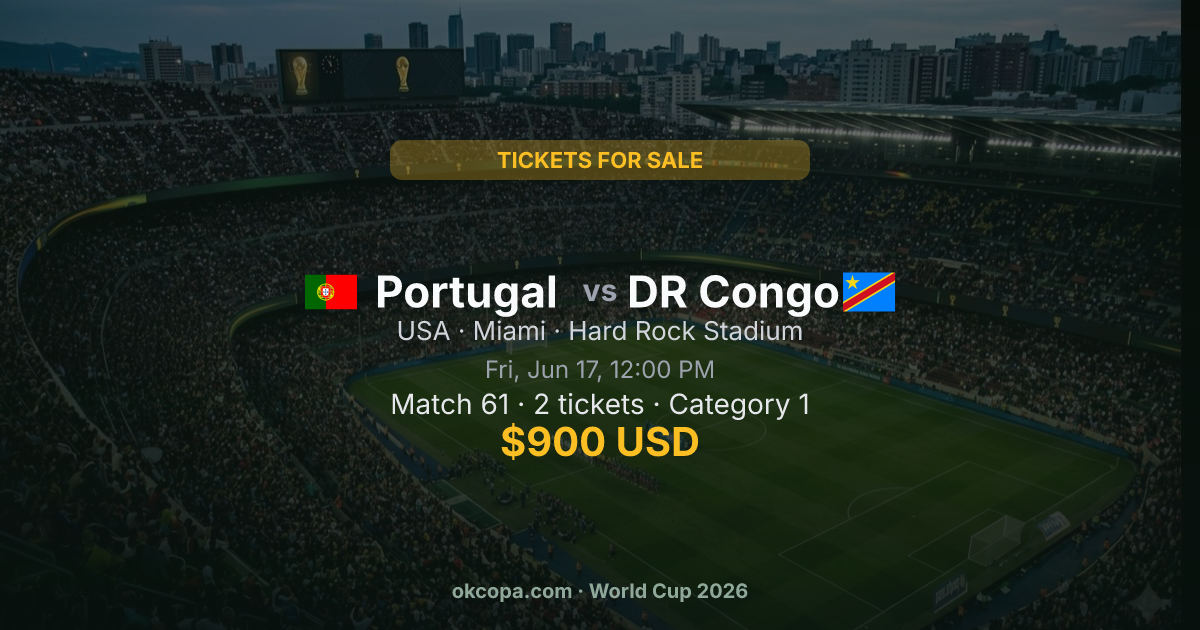
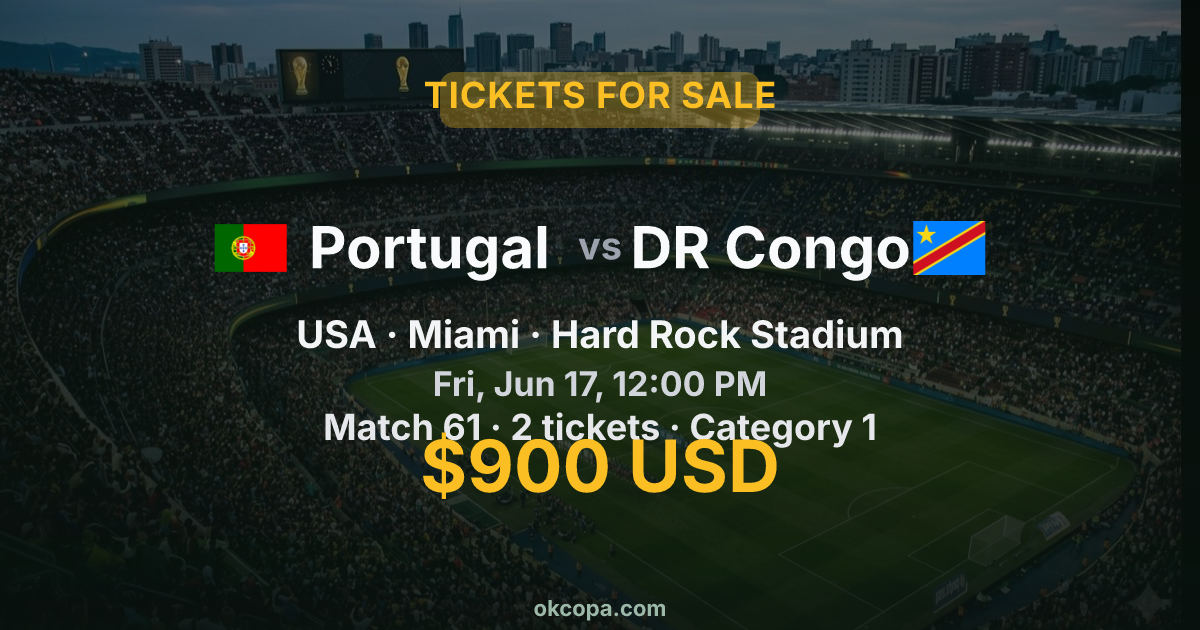
fix: WhatsApp OG previews and shorter share copy
Return static JPEG with 200 on render failure, init @jsquash WASM on
Workers, enlarge ticket OG card typography, and simplify share text to
platform pitch only (details live in link preview).

Changed region(s): [[0.1542, 0.3317, 0.8325, 0.7841], [0.3083, 0.0905, 0.6783, 0.3016], [0.37, 0.9048, 0.6167, 0.9952]]

diff --git a/functions/ogCardSvg.ts b/functions/ogCardSvg.ts
@@ -64,25 +64,25 @@ function flagImage(emoji: string | undefined, x: number, y: number, size: number
   return `<image href="${href}" x="${x - w / 2}" y="${y - h / 2}" width="${w}" height="${h}" preserveAspectRatio="xMidYMid meet"/>`;
 }
 
-function matchupBlock(card: OgCardContent, accent: string): string {
-  const home = card.homeTeam ? truncate(card.homeTeam, 28) : '';
-  const away = card.awayTeam ? truncate(card.awayTeam, 28) : '';
+function matchupBlock(card: OgCardContent, y: number): string {
+  const home = card.homeTeam ? truncate(card.homeTeam, 24) : '';
+  const away = card.awayTeam ? truncate(card.awayTeam, 24) : '';
   if (!home && !away) {
-    const headline = truncate(card.headline || '', 56);
-    return `<text x="${CX}" y="300" text-anchor="middle" fill="#f9fafb" font-family="Inter, sans-serif" font-size="46" font-weight="700">${escapeXml(headline)}</text>`;
+    const headline = truncate(card.headline || '', 48);
+    const headlineSize = headline.length > 40 ? 52 : 64;
+    return `<text x="${CX}" y="${y + headlineSize * 0.35}" text-anchor="middle" fill="#f9fafb" font-family="Inter, sans-serif" font-size="${headlineSize}" font-weight="800">${escapeXml(headline)}</text>`;
   }
 
-  const fontSize = home.length + away.length > 36 ? 38 : 44;
-  const vsSize = 30;
-  const flagW = 52;
-  const gap = 18;
+  const fontSize = home.length + away.length > 32 ? 50 : 58;
+  const vsSize = 38;
+  const flagW = 72;
+  const gap = 22;
   const homeW = home.length * (fontSize * 0.52);
   const awayW = away.length * (fontSize * 0.52);
-  const vsW = 48;
+  const vsW = 56;
   const total =
     flagW + gap + homeW + gap + vsW + gap + awayW + gap + flagW;
   let x = CX - total / 2 + flagW / 2;
-  const y = 292;
   const parts: string[] = [];
 
   parts.push(flagImage(card.flag1, x, y, flagW));
@@ -107,51 +107,53 @@ function matchupBlock(card: OgCardContent, accent: string): string {
 export function buildCardSvg(card: OgCardContent): string {
   const isSell = card.badge.includes('SALE');
   const accent = isSell ? '#fbbf24' : '#38bdf8';
-  const accentSoft = isSell ? 'rgba(251,191,36,0.28)' : 'rgba(56,189,248,0.28)';
+  const accentSoft = isSell ? 'rgba(251,191,36,0.32)' : 'rgba(56,189,248,0.32)';
 
-  const badge = truncate(card.badge, 40);
-  const meta = card.meta ? truncate(card.meta, 72) : '';
-  const kickoff = card.kickoff ? truncate(card.kickoff, 44) : '';
-  const detailLines = wrapLines(card.detail, 64, 2);
-  const price = card.price ? truncate(card.price, 28) : '';
+  const badge = truncate(card.badge, 36);
+  const meta = card.meta ? truncate(card.meta, 56) : '';
+  const kickoff = card.kickoff ? truncate(card.kickoff, 40) : '';
+  const detailLines = wrapLines(card.detail, 52, 2);
+  const price = card.price ? truncate(card.price, 24) : '';
 
   const hero = getOgHeroJpegDataUrl();
   const bgLayer = hero
     ? `<image href="${hero}" x="0" y="0" width="${W}" height="${H}" preserveAspectRatio="xMidYMid slice"/>`
     : `<rect width="${W}" height="${H}" fill="#1a3d2e"/>`;
 
-  const textLines: string[] = [];
-  let y = 168;
+  const badgeFont = 36;
+  const badgePadX = Math.min(480, Math.max(320, badge.length * 18));
+  const badgeY = 108;
+  const matchupY = 248;
 
-  textLines.push(
-    `<rect x="${CX - 210}" y="${y - 28}" width="420" height="40" rx="12" fill="${accentSoft}"/>`,
-    `<text x="${CX}" y="${y}" text-anchor="middle" fill="${accent}" font-family="Inter, sans-serif" font-size="22" font-weight="700">${escapeXml(badge)}</text>`,
-  );
+  const textLines: string[] = [
+    `<rect x="${CX - badgePadX / 2}" y="${badgeY - 36}" width="${badgePadX}" height="56" rx="14" fill="${accentSoft}"/>`,
+    `<text x="${CX}" y="${badgeY}" text-anchor="middle" fill="${accent}" font-family="Inter, sans-serif" font-size="${badgeFont}" font-weight="800" letter-spacing="1">${escapeXml(badge)}</text>`,
+  ];
 
-  const matchup = matchupBlock(card, accent);
-  y = 340;
+  const matchup = matchupBlock(card, matchupY);
+  let y = 348;
   if (meta) {
     textLines.push(
-      `<text x="${CX}" y="${y}" text-anchor="middle" fill="#d1d5db" font-family="Inter, sans-serif" font-size="26" font-weight="500">${escapeXml(meta)}</text>`,
+      `<text x="${CX}" y="${y}" text-anchor="middle" fill="#f3f4f6" font-family="Inter, sans-serif" font-size="38" font-weight="600">${escapeXml(meta)}</text>`,
     );
-    y += 38;
+    y += 48;
   }
   if (kickoff) {
     textLines.push(
-      `<text x="${CX}" y="${y}" text-anchor="middle" fill="#9ca3af" font-family="Inter, sans-serif" font-size="24" font-weight="500">${escapeXml(kickoff)}</text>`,
+      `<text x="${CX}" y="${y}" text-anchor="middle" fill="#d1d5db" font-family="Inter, sans-serif" font-size="34" font-weight="600">${escapeXml(kickoff)}</text>`,
     );
-    y += 36;
+    y += 44;
   }
   for (const line of detailLines) {
     textLines.push(
-      `<text x="${CX}" y="${y}" text-anchor="middle" fill="#e5e7eb" font-family="Inter, sans-serif" font-size="28" font-weight="500">${escapeXml(line)}</text>`,
+      `<text x="${CX}" y="${y}" text-anchor="middle" fill="#e5e7eb" font-family="Inter, sans-serif" font-size="36" font-weight="600">${escapeXml(line)}</text>`,
     );
-    y += 34;
+    y += 42;
   }
   if (price) {
-    y += 8;
+    y += 10;
     textLines.push(
-      `<text x="${CX}" y="${y}" text-anchor="middle" fill="${accent}" font-family="Inter, sans-serif" font-size="40" font-weight="700">${escapeXml(price)}</text>`,
+      `<text x="${CX}" y="${y}" text-anchor="middle" fill="${accent}" font-family="Inter, sans-serif" font-size="72" font-weight="800">${escapeXml(price)}</text>`,
     );
   }
 
@@ -159,15 +161,15 @@ export function buildCardSvg(card: OgCardContent): string {
 <svg xmlns="http://www.w3.org/2000/svg" width="${W}" height="${H}" viewBox="0 0 ${W} ${H}">
   <defs>
     <linearGradient id="shade" x1="0" y1="0" x2="0" y2="1">
-      <stop offset="0%" stop-color="rgba(10,22,16,0.55)"/>
-      <stop offset="45%" stop-color="rgba(10,22,16,0.72)"/>
-      <stop offset="100%" stop-color="rgba(8,18,14,0.88)"/>
+      <stop offset="0%" stop-color="rgba(10,22,16,0.5)"/>
+      <stop offset="40%" stop-color="rgba(10,22,16,0.68)"/>
+      <stop offset="100%" stop-color="rgba(8,18,14,0.9)"/>
     </linearGradient>
   </defs>
   ${bgLayer}
   <rect width="${W}" height="${H}" fill="url(#shade)"/>
   ${textLines.join('\n  ')}
   ${matchup}
-  <text x="${CX}" y="598" text-anchor="middle" fill="#8fa89a" font-family="Inter, sans-serif" font-size="20" font-weight="600">okcopa.com · World Cup 2026</text>
+  <text x="${CX}" y="616" text-anchor="middle" fill="#9cb8a8" font-family="Inter, sans-serif" font-size="22" font-weight="700">okcopa.com</text>
 </svg>`;
 }

diff --git a/src/i18n.ts b/src/i18n.ts
@@ -210,18 +210,10 @@ export const t = {
     ticketShareCopied: 'Copied — paste into WhatsApp',
     ticketShareAria: 'Share this listing',
     ticketShareHighlight: 'Shared listing',
-    ticketShareSellIntro: "Hey guys! Just listed my World Cup '26 tickets on OKCOPA:",
-    ticketShareSellMatchLabel: 'Match',
-    ticketShareSellCategoryLabel: 'Category/Qty',
-    ticketShareSellPriceLabel: 'Price',
-    ticketShareSellLinkCta:
-      'You can click the link below to check my exact seats and chat with me directly via WhatsApp!',
-    ticketShareSellPlatformPitch:
-      "Also, highly recommend this awesome fan-to-fan directory. It's a personal project built by a fellow fan—100% free with 0% platform fees (finally we can skip that crazy 30% StubHub markup!). Feel free to check it out! 🤝⚽",
-    ticketShareSellLinkCue: '👇👇👇',
-    ticketShareBuyIntro: "Hey! I'm looking for World Cup '26 tickets on OKCOPA:",
-    ticketShareBuyTargetLabel: 'Looking for',
-    ticketShareBuyBudgetLabel: 'Budget',
+    ticketShareSellBody:
+      'I posted a ticket transfer on OKCOPA, a free fan-to-fan hub. Open the link and tap WhatsApp on the listing to message me directly.',
+    ticketShareBuyBody:
+      'I posted a ticket wanted ad on OKCOPA, a free fan-to-fan hub. Open the link and tap WhatsApp on the listing to reach me.',
     ticketSellCardMatchup: 'Fixture',
     ticketSellVs: 'vs',
     ticketSellCardCountry: 'Country',
@@ -424,18 +416,10 @@ export const t = {
     ticketShareCopied: 'Copiado — pega en WhatsApp',
     ticketShareAria: 'Compartir esta publicación',
     ticketShareHighlight: 'Publicación compartida',
-    ticketShareSellIntro: '¡Hola! Acabo de publicar mis boletos del Mundial 2026 en OKCOPA:',
-    ticketShareSellMatchLabel: 'Partido',
-    ticketShareSellCategoryLabel: 'Categoría/Cant.',
-    ticketShareSellPriceLabel: 'Precio',
-    ticketShareSellLinkCta:
-      'Abre el enlace para ver mis asientos exactos y escríbeme directo por WhatsApp.',
-    ticketShareSellPlatformPitch:
-      'También te recomiendo este directorio fan a fan: proyecto personal de un aficionado, 100% gratis y 0% comisión (¡adiós al recargo del 30% de StubHub!). ¡Échale un vistazo! 🤝⚽',
-    ticketShareSellLinkCue: '👇👇👇',
-    ticketShareBuyIntro: '¡Hola! Busco boletos del Mundial 2026 en OKCOPA:',
-    ticketShareBuyTargetLabel: 'Busco',
-    ticketShareBuyBudgetLabel: 'Presupuesto',
+    ticketShareSellBody:
+      'Publiqué una transferencia de boletos en OKCOPA, un hub fan a fan gratis. Abre el enlace y toca WhatsApp en el anuncio para escribirme directo.',
+    ticketShareBuyBody:
+      'Publiqué que busco boletos en OKCOPA, un hub fan a fan gratis. Abre el enlace y toca WhatsApp en el anuncio para contactarme.',
     ticketSellCardMatchup: 'Partido',
     ticketSellVs: 'vs',
     ticketSellCardCountry: 'País',
@@ -638,18 +622,10 @@ export const t = {
     ticketShareCopied: 'Copiado — cole no WhatsApp',
     ticketShareAria: 'Compartilhar esta publicação',
     ticketShareHighlight: 'Publicação compartilhada',
-    ticketShareSellIntro: 'Oi! Acabei de anunciar meus ingressos da Copa 2026 na OKCOPA:',
-    ticketShareSellMatchLabel: 'Jogo',
-    ticketShareSellCategoryLabel: 'Categoria/Qtd.',
-    ticketShareSellPriceLabel: 'Preço',
-    ticketShareSellLinkCta:
-      'Abra o link para ver meus assentos exatos e fale comigo direto no WhatsApp.',
-    ticketShareSellPlatformPitch:
-      'Recomendo muito este diretório torcedor a torcedor: projeto pessoal de um fã, 100% grátis e 0% de taxa (finalmente dá para fugir dos 30% do StubHub!). Dá uma olhada! 🤝⚽',
-    ticketShareSellLinkCue: '👇👇👇',
-    ticketShareBuyIntro: 'Oi! Estou procurando ingressos da Copa 2026 na OKCOPA:',
-    ticketShareBuyTargetLabel: 'Procuro',
-    ticketShareBuyBudgetLabel: 'Orçamento',
+    ticketShareSellBody:
+      'Anunciei uma transferência de ingressos na OKCOPA, um hub torcedor a torcedor grátis. Abra o link e toque em WhatsApp no anúncio para falar comigo direto.',
+    ticketShareBuyBody:
+      'Anunciei que procuro ingressos na OKCOPA, um hub torcedor a torcedor grátis. Abra o link e toque em WhatsApp no anúncio para me contatar.',
     ticketSellCardMatchup: 'Jogo',
     ticketSellVs: 'x',
     ticketSellCardCountry: 'País',

diff --git a/src/ticketShare.ts b/src/ticketShare.ts
@@ -1,6 +1,4 @@
 import type { Translations } from './i18n';
-import type { TicketSellPayload, TicketBuyPayload } from './ticketPostForm';
-import { formatCategorySeatLine } from './ticketPostForm';
 import type { TicketWallPost } from './ticketPosts';
 
 const TICKET_PARAM = 'ticket';
@@ -26,101 +24,19 @@ export function clearTicketShareFromUrl(): void {
   window.history.replaceState(window.history.state, '', next);
 }
 
-/** "Match 16 · A vs B" → "Match 16 - A vs B" for share copy. */
-function formatShareMatchLine(raw: string): string {
-  const s = raw.trim();
-  const dot = s.indexOf('·');
-  if (dot > 0 && /^Match\s+\d+/i.test(s)) {
-    return `${s.slice(0, dot).trim()} - ${s.slice(dot + 1).trim()}`;
-  }
-  return s;
-}
-
-function sellShareMatchLine(post: TicketWallPost): string {
-  const p = post.payload as TicketSellPayload | undefined;
-  if (p?.matches?.length) return formatShareMatchLine(p.matches[0]);
-  const first = post.summary.split(' · ')[0]?.trim();
-  return first || post.summary;
-}
-
-function sellShareCategoryQtyLine(p: TicketSellPayload): string {
-  const parts: string[] = [];
-  if (p.category?.trim()) parts.push(p.category.trim());
-  parts.push(`${p.quantity} Ticket${p.quantity !== 1 ? 's' : ''}`);
-  const seat = formatCategorySeatLine(p);
-  if (seat) parts.push(seat);
-  return parts.join(' · ');
-}
-
-function sellSharePriceLine(p: TicketSellPayload): string {
-  if (p.priceType === 'negotiable') return 'Negotiable';
-  if (p.priceAmount != null && Number.isFinite(p.priceAmount)) return `$${p.priceAmount} USD`;
-  return '—';
-}
-
-function buildSellShareBody(post: TicketWallPost, tr: Translations): string {
-  const p = post.payload as TicketSellPayload | undefined;
-  const lines: string[] = [tr.ticketShareSellIntro, ''];
-
-  lines.push(`🏟 ${tr.ticketShareSellMatchLabel}: ${sellShareMatchLine(post)}`);
-
-  if (p) {
-    lines.push(`🎫 ${tr.ticketShareSellCategoryLabel}: ${sellShareCategoryQtyLine(p)}`);
-    lines.push(`💰 ${tr.ticketShareSellPriceLabel}: ${sellSharePriceLine(p)}`);
-  } else {
-    lines.push(`🎫 ${tr.ticketShareSellCategoryLabel}: ${post.summary}`);
-  }
-
-  lines.push(
-    '',
-    tr.ticketShareSellLinkCta,
-    '',
-    tr.ticketShareSellPlatformPitch,
-  );
-  return lines.join('\n');
-}
-
-function buildBuyShareBody(post: TicketWallPost, tr: Translations): string {
-  const p = post.payload as TicketBuyPayload | undefined;
-  const lines: string[] = [tr.ticketShareBuyIntro, ''];
-
-  if (p) {
-    lines.push(`🏟 ${tr.ticketShareBuyTargetLabel}: ${p.targetMatch.trim()}`);
-    const qtyParts = [`${p.quantity} Ticket${p.quantity !== 1 ? 's' : ''}`];
-    if (p.category?.trim()) qtyParts.unshift(p.category.trim());
-    const seat = formatCategorySeatLine(p);
-    if (seat) qtyParts.push(seat);
-    lines.push(`🎫 ${tr.ticketShareSellCategoryLabel}: ${qtyParts.join(' · ')}`);
-    if (p.budget?.trim()) {
-      lines.push(`💰 ${tr.ticketShareBuyBudgetLabel}: ${p.budget.trim()}`);
-    }
-  } else {
-    lines.push(`🏟 ${tr.ticketShareBuyTargetLabel}: ${post.summary}`);
-  }
-
-  lines.push(
-    '',
-    tr.ticketShareSellLinkCta,
-    '',
-    tr.ticketShareSellPlatformPitch,
-  );
-  return lines.join('\n');
-}
-
 export function ticketShareTitle(post: TicketWallPost, tr: Translations): string {
   const kind = post.kind === 'buy' ? tr.tabTicketBuy : tr.tabTicketSell;
   return `OKcopa · ${kind} · ${post.summary}`;
 }
 
-/** Part 1: listing details; part 2: platform trust pitch (no URL — appended on share). */
+/** Platform pitch only — ticket details show in the link preview card. */
 export function ticketShareText(post: TicketWallPost, tr: Translations): string {
-  if (post.kind === 'sell') return buildSellShareBody(post, tr);
-  return buildBuyShareBody(post, tr);
+  return post.kind === 'sell' ? tr.ticketShareSellBody : tr.ticketShareBuyBody;
 }
 
 export function buildTicketShareMessage(post: TicketWallPost, tr: Translations, baseUrl?: string): string {
   const url = buildTicketShareUrl(post, baseUrl);
-  return `${ticketShareText(post, tr)}\n\n${tr.ticketShareSellLinkCue}\n${url}`;
+  return `${url}\n\n${ticketShareText(post, tr)}`;
 }
 
 export async function shareTicketPost(post: TicketWallPost, tr: Translations): Promise<'shared' | 'copied'> {

diff --git a/functions/ogJpeg.ts b/functions/ogJpeg.ts
@@ -1,8 +1,23 @@
-import { encode as encodeJpeg } from '@jsquash/jpeg';
-import { decode as decodePng } from '@jsquash/png';
+import encodeJpeg, { init as initJpeg } from '@jsquash/jpeg/encode.js';
+import decodePng, { init as initPng } from '@jsquash/png/decode.js';
+// @ts-expect-error Cloudflare Pages bundles .wasm as a module
+import jpegWasm from '@jsquash/jpeg/codec/enc/mozjpeg_enc.wasm';
+// @ts-expect-error Cloudflare Pages bundles .wasm as a module
+import pngWasm from '@jsquash/png/codec/pkg/squoosh_png_bg.wasm';
+
+let codecsReady: Promise<void> | null = null;
+
+function ensureCodecs(): Promise<void> {
+  if (!codecsReady) {
+    codecsReady = Promise.all([initPng(pngWasm), initJpeg(jpegWasm)]).then(() => undefined);
+  }
+  return codecsReady;
+}
 
 /** WhatsApp / Meta previews often ignore images above ~300KB. */
 export async function pngToJpeg(png: Uint8Array, quality = 78): Promise<Uint8Array> {
+  await ensureCodecs();
   const imageData = await decodePng(png);
-  return encodeJpeg(imageData, { quality });
+  const buf = await encodeJpeg(imageData, { quality });
+  return buf instanceof Uint8Array ? buf : new Uint8Array(buf);
 }

diff --git a/functions/og/ticket.ts b/functions/og/ticket.ts
@@ -1,3 +1,4 @@
+import { ogStaticJpegResponse } from '../ogFallback';
 import { buildCardSvg } from '../ogCardSvg';
 import { cardContentFromRow } from '../ogCardContent';
 import {
@@ -7,6 +8,8 @@ import {
 } from '../ogImage';
 import { fetchTicketRow } from '../ogTicket';
 import { resolveSupabaseEnv } from '../supabaseEnv';
+
+const TICKET_FALLBACK = '/og-ticket-fallback.jpg';
 
 const IMAGE_HEADERS = {
   'Content-Type': OG_IMAGE_CONTENT_TYPE,
@@ -45,7 +48,6 @@ export const onRequest: PagesFunction = async context => {
     return new Response(jpeg, { headers: IMAGE_HEADERS });
   } catch (err) {
     console.error('og/ticket render failed', err);
-    const staticUrl = new URL('/og-ticket-fallback.jpg', context.request.url);
-    return Response.redirect(staticUrl.toString(), 302);
+    return ogStaticJpegResponse(context.request.url, TICKET_FALLBACK);
   }
 };

diff --git a/functions/og/brand.ts b/functions/og/brand.ts
@@ -1,5 +1,8 @@
+import { ogStaticJpegResponse } from '../ogFallback';
 import { buildBrandCardSvg } from '../ogBrandSvg';
 import { MIN_OG_IMAGE_BYTES, OG_IMAGE_CONTENT_TYPE, svgToOgJpeg } from '../ogImage';
+
+const BRAND_FALLBACK = '/og-okcopa.jpg';
 
 const IMAGE_HEADERS = {
   'Content-Type': OG_IMAGE_CONTENT_TYPE,
@@ -15,7 +18,6 @@ export const onRequest: PagesFunction = async context => {
     return new Response(jpeg, { headers: IMAGE_HEADERS });
   } catch (err) {
     console.error('og/brand render failed', err);
-    const staticUrl = new URL('/og-okcopa.jpg', context.request.url);
-    return Response.redirect(staticUrl.toString(), 302);
+    return ogStaticJpegResponse(context.request.url, BRAND_FALLBACK);
   }
 };

diff --git a/functions/ogFallback.ts b/functions/ogFallback.ts
@@ -1,0 +1,17 @@
+const JPEG_HEADERS = {
+  'Content-Type': 'image/jpeg',
+  'Cache-Control': 'public, max-age=300',
+} as const;
+
+/** WhatsApp / Meta need 200 + image bytes on the og:image URL (no redirects). */
+export async function ogStaticJpegResponse(
+  requestUrl: string,
+  pathname: string,
+): Promise<Response> {
+  const url = new URL(pathname, requestUrl);
+  const res = await fetch(url.toString());
+  if (!res.ok) {
+    return new Response('OG unavailable', { status: 503 });
+  }
+  return new Response(await res.arrayBuffer(), { headers: JPEG_HEADERS });
+}
